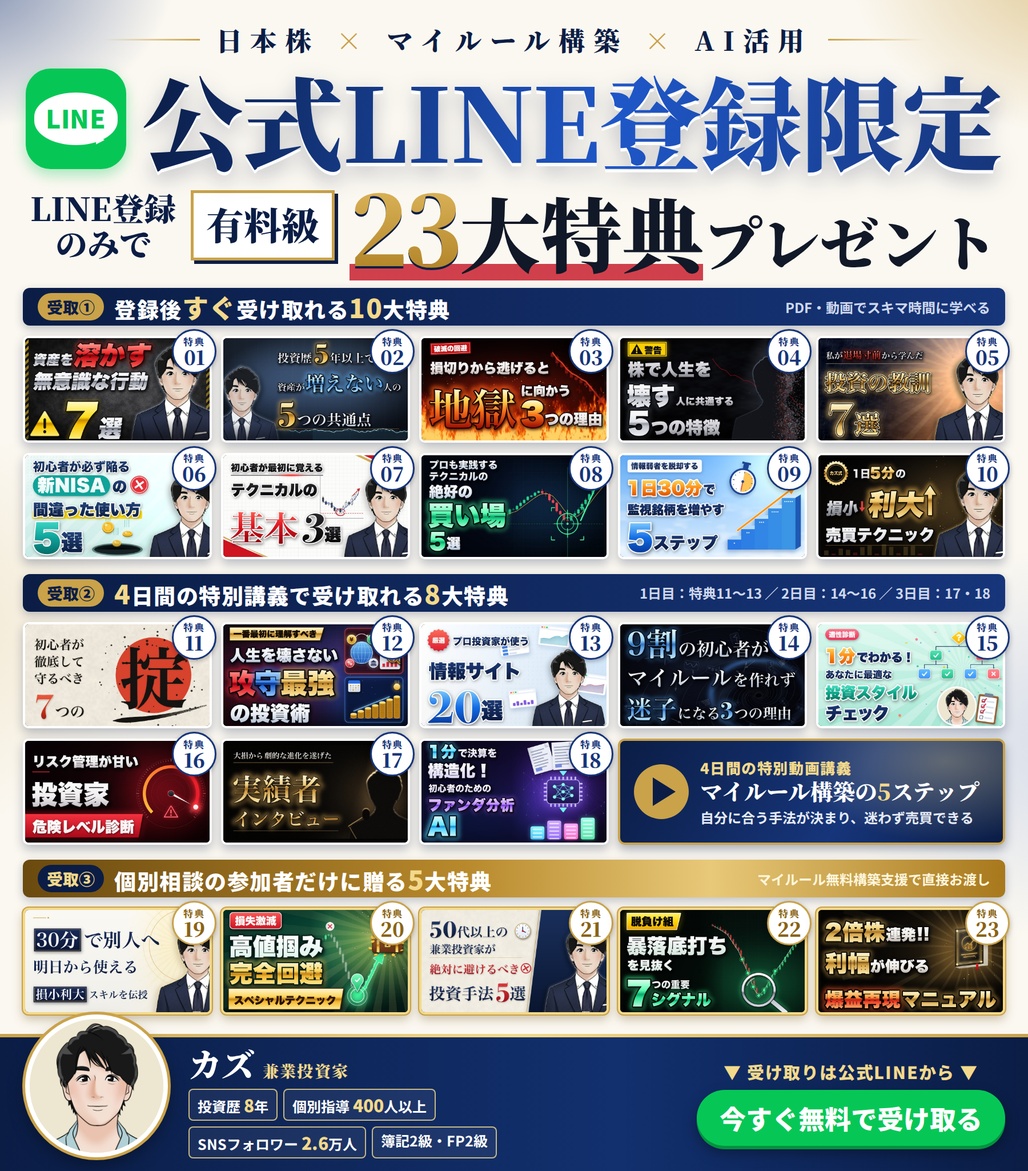
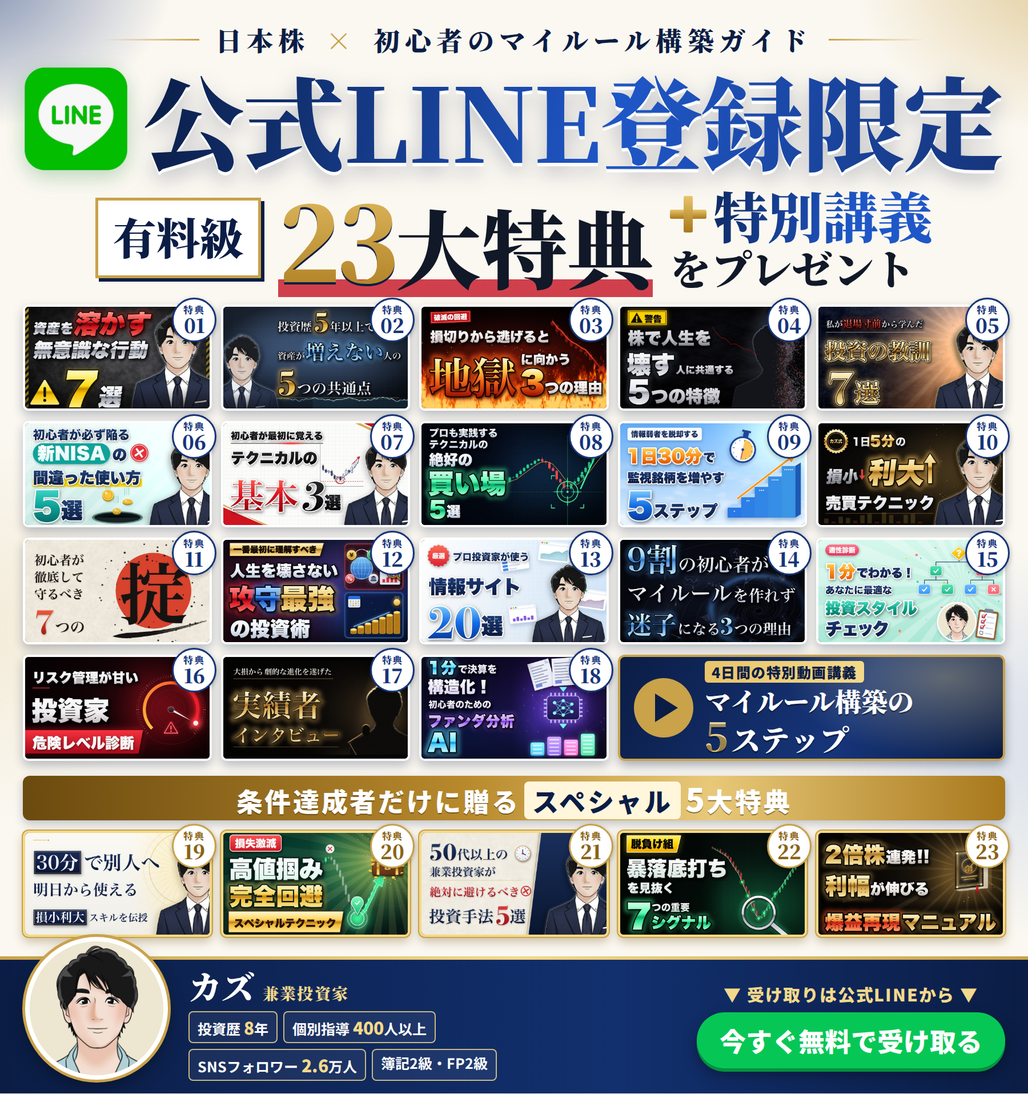
特典一覧画像v2：見出し・LINEアイコン・オファー文言・帯構成を修正
Claude-Session: https://claude.ai/code/session_01BRYeZoZKB6B4nL7X67V6t7

diff --git a/docs/sns-launch/line_tokuten/index.html b/docs/sns-launch/line_tokuten/index.html
@@ -24,32 +24,37 @@
 
   /* ---------- header ---------- */
   .eyebrow{display:flex;align-items:center;justify-content:center;gap:28px;
-    font-family:'Noto Serif JP',serif;font-weight:900;font-size:46px;letter-spacing:.32em;color:var(--navy)}
+    font-family:'Noto Serif JP',serif;font-weight:900;font-size:46px;letter-spacing:.2em;color:var(--navy)}
   .eyebrow::before,.eyebrow::after{content:"";height:3px;width:170px;background:linear-gradient(90deg,transparent,var(--gold))}
   .eyebrow::after{transform:scaleX(-1)}
   .eyebrow b{color:var(--gold)}
 
   .main{display:flex;align-items:center;justify-content:center;gap:26px;margin-top:10px}
-  .linebadge{width:176px;height:176px;border-radius:44px;background:var(--line);display:grid;place-items:center;
-    box-shadow:0 10px 24px rgba(6,199,85,.35)}
-  .linebadge span{background:#fff;color:var(--line);font:900 44px/1 'Noto Sans JP';padding:22px 20px 26px;border-radius:50% / 46%;letter-spacing:.02em;position:relative}
-  .linebadge span::after{content:"";position:absolute;right:26px;bottom:-12px;border:12px solid transparent;border-top-color:#fff;border-left-width:4px;transform:rotate(18deg)}
+  .linebadge{width:180px;height:180px;flex:none;filter:drop-shadow(0 10px 18px rgba(6,120,40,.28))}
+  .linebadge img{width:100%;height:100%;display:block}
   .headline{font-family:'Noto Serif JP',serif;font-weight:900;font-size:178px;line-height:1.08;letter-spacing:-.01em;
     background:linear-gradient(100deg,var(--navy) 0%,var(--blue) 55%,var(--navy2) 100%);-webkit-background-clip:text;background-clip:text;color:transparent;
     filter:drop-shadow(0 6px 0 rgba(255,255,255,.9)) drop-shadow(0 12px 18px rgba(11,29,69,.25))}
 
-  .offer{display:flex;align-items:center;justify-content:center;gap:26px;margin-top:6px}
+  .offer{display:flex;align-items:center;justify-content:center;gap:30px;margin-top:22px}
   .offer .only{white-space:nowrap;font-family:'Noto Serif JP',serif;font-weight:900;font-size:56px;line-height:1.12;color:var(--navy);text-align:center}
-  .offer .box{white-space:nowrap;border:5px solid var(--gold);color:var(--navy);background:#fff;font-family:'Noto Serif JP',serif;font-weight:900;font-size:66px;padding:6px 22px 12px;
+  .offer .box{white-space:nowrap;border:5px solid var(--gold);color:var(--navy);background:#fff;font-family:'Noto Serif JP',serif;font-weight:900;font-size:76px;padding:8px 26px 14px;
     box-shadow:6px 6px 0 var(--navy)}
-  .offer .big{font-family:'Noto Serif JP',serif;font-weight:900;color:var(--ink);font-size:142px;line-height:1;position:relative;white-space:nowrap}
-  .offer .big .num{font-size:168px;letter-spacing:-.04em;background:linear-gradient(180deg,#e9c46a,#a8781c);-webkit-background-clip:text;background-clip:text;color:transparent;
+  .offer .big{font-family:'Noto Serif JP',serif;font-weight:900;color:var(--ink);font-size:150px;line-height:1;position:relative;white-space:nowrap}
+  .offer .big .num{font-size:180px;letter-spacing:-.04em;background:linear-gradient(180deg,#e9c46a,#a8781c);-webkit-background-clip:text;background-clip:text;color:transparent;
     filter:drop-shadow(0 4px 0 var(--navy))}
   .offer .big .u{background:linear-gradient(transparent 78%,rgba(200,32,47,.85) 78%,rgba(200,32,47,.85) 92%,transparent 92%)}
-  .offer .big small{font-size:104px}
+  .offer .plus{font-family:'Noto Serif JP',serif;font-weight:900;white-space:nowrap;line-height:1.05}
+  .offer .p1{font-size:96px;background:linear-gradient(100deg,var(--navy) 0%,var(--blue) 70%);-webkit-background-clip:text;background-clip:text;color:transparent}
+  .offer .p1 .pm{display:inline-block;position:relative;width:64px;height:64px;margin-right:12px;vertical-align:10px}
+  .offer .p1 .pm::before,.offer .p1 .pm::after{content:"";position:absolute;background:linear-gradient(180deg,#e9c46a,#a8781c);border-radius:3px}
+  .offer .p1 .pm::before{left:0;right:0;top:24px;height:16px}
+  .offer .p1 .pm::after{top:0;bottom:0;left:24px;width:16px}
+  .offer .p2{font-size:72px;color:var(--ink);margin-top:4px}
 
   /* ---------- sections ---------- */
   .sec{margin-top:26px;position:relative}
+  .sec.tight{margin-top:0}
   .ribbon{display:flex;align-items:center;gap:18px;height:66px;padding:0 26px;border-radius:12px;
     background:linear-gradient(90deg,var(--navy),var(--navy2));color:#fff;box-shadow:0 6px 16px rgba(11,29,69,.25)}
   .ribbon .tag{background:var(--gold);color:var(--navy);font-weight:900;font-size:28px;padding:4px 16px;border-radius:999px;white-space:nowrap}
@@ -72,17 +77,19 @@
     background:linear-gradient(120deg,#0b1d45 0%,#16357a 60%,#0b1d45 100%);border:4px solid var(--gold);
     box-shadow:0 8px 18px rgba(11,29,69,.35);color:#fff;display:flex;align-items:center;padding:0 24px;gap:20px}
   .feature::before{content:"";position:absolute;inset:0;background:radial-gradient(400px 200px at 85% 20%,rgba(243,217,139,.35),transparent 70%)}
-  .feature .play{flex:none;width:96px;height:96px;border-radius:50%;background:var(--gold);display:grid;place-items:center;position:relative}
+  .feature .play{flex:none;width:104px;height:104px;border-radius:50%;background:var(--gold);display:grid;place-items:center;position:relative}
   .feature .play::after{content:"";margin-left:10px;border-left:40px solid var(--navy);border-top:25px solid transparent;border-bottom:25px solid transparent}
   .feature .txt{position:relative}
-  .feature .k{font-weight:900;font-size:26px;color:var(--gold2);letter-spacing:.06em}
-  .feature .t{white-space:nowrap;font-family:'Noto Serif JP',serif;font-weight:900;font-size:39px;line-height:1.15}
-  .feature .t em{font-style:normal;color:var(--gold2)}
-  .feature .s{white-space:nowrap;font-weight:700;font-size:24px;margin-top:6px;color:#e6ebf7}
+  .feature .k{display:inline-block;font-weight:900;font-size:25px;color:var(--navy);background:linear-gradient(90deg,#e9c46a,#f3d98b);padding:1px 12px;border-radius:6px;letter-spacing:.06em}
+  .feature .t{white-space:nowrap;font-family:'Noto Serif JP',serif;font-weight:900;font-size:46px;line-height:1.1;margin-top:6px;text-shadow:0 3px 0 rgba(0,0,0,.35)}
+  .feature .t2{white-space:nowrap;font-family:'Noto Serif JP',serif;font-weight:900;font-size:52px;line-height:1;text-shadow:0 3px 0 rgba(0,0,0,.35)}
+  .feature .t2 em{font-style:normal;font-size:68px;background:linear-gradient(180deg,#fff3c4,#e2b654);-webkit-background-clip:text;background-clip:text;color:transparent;margin-right:4px}
 
-  .sec.gold .ribbon{background:linear-gradient(90deg,#6b4a0f,#b8892c 45%,#e8c979 70%,#a8781c)}
+  .sec.gold .ribbon{justify-content:center;height:78px;background:linear-gradient(90deg,#6b4a0f,#b8892c 45%,#e8c979 70%,#a8781c)}
   .sec.gold .ribbon .tag{background:var(--navy);color:var(--gold2)}
-  .sec.gold .ribbon .note{color:#fff6dc}
+  .sec.gold .ribbon h2{font-size:46px;letter-spacing:.08em;text-shadow:0 2px 0 rgba(80,52,6,.6)}
+  .sec.gold .ribbon h2 em{color:#fff;font-size:56px}
+  .sec.gold .ribbon h2 em.sp{font-size:46px;color:var(--navy);text-shadow:none;background:#fff6dc;padding:0 14px;border-radius:8px;margin:0 8px}
   .sec.gold .card{border-color:var(--gold2);box-shadow:0 0 0 2px var(--gold),0 8px 18px rgba(107,74,15,.35)}
   .sec.gold .badge{border-color:var(--gold);color:#8a6414}
 
@@ -107,31 +114,32 @@
 <body>
 <div class="canvas" id="canvas">
 
-  <div class="eyebrow">日本株<b>×</b>マイルール構築<b>×</b>AI活用</div>
+  <div class="eyebrow">日本株<b>×</b>初心者のマイルール構築ガイド</div>
 
   <div class="main">
-    <div class="linebadge"><span>LINE</span></div>
+    <div class="linebadge"><img src="assets/line.png" alt="LINE"></div>
     <div class="headline">公式LINE登録限定</div>
   </div>
 
   <div class="offer">
-    <div class="only">LINE登録<br>のみで</div>
     <div class="box">有料級</div>
-    <div class="big"><span class="u"><span class="num">23</span>大特典</span><small>プレゼント</small></div>
+    <div class="big"><span class="u"><span class="num">23</span>大特典</span></div>
+    <div class="plus">
+      <div class="p1"><span class="pm"></span>特別講義</div>
+      <div class="p2">をプレゼント</div>
+    </div>
   </div>
 
   <section class="sec">
-    <div class="ribbon"><span class="tag">受取①</span><h2>登録後<em>すぐ</em>受け取れる<em>10</em>大特典</h2><span class="note">PDF・動画でスキマ時間に学べる</span></div>
     <div class="grid" id="g1"></div>
   </section>
 
-  <section class="sec">
-    <div class="ribbon"><span class="tag">受取②</span><h2><em>4</em>日間の特別講義で受け取れる<em>8</em>大特典</h2><span class="note">1日目：特典11〜13 ／ 2日目：14〜16 ／ 3日目：17・18</span></div>
+  <section class="sec tight">
     <div class="grid" id="g2"></div>
   </section>
 
   <section class="sec gold">
-    <div class="ribbon"><span class="tag">受取③</span><h2>個別相談の参加者だけに贈る<em>5</em>大特典</h2><span class="note">マイルール無料構築支援で直接お渡し</span></div>
+    <div class="ribbon"><h2>条件達成者だけに贈る<em class="sp">スペシャル</em><em>5</em>大特典</h2></div>
     <div class="grid" id="g3"></div>
   </section>
 
@@ -167,8 +175,8 @@
       <div class="play"></div>
       <div class="txt">
         <div class="k">4日間の特別動画講義</div>
-        <div class="t">マイルール構築の<em>5</em>ステップ</div>
-        <div class="s">自分に合う手法が決まり、迷わず売買できる</div>
+        <div class="t">マイルール構築の</div>
+        <div class="t2"><em>5</em>ステップ</div>
       </div>
     </div>`;
   document.getElementById('g3').innerHTML = [19,20,21,22,23].map(n=>card(n)).join('');

diff --git a/docs/sns-launch/line_tokuten/README.md b/docs/sns-launch/line_tokuten/README.md
@@ -1,6 +1,6 @@
 # LINE登録特典一覧画像（X投稿用）
 
-- 完成画像：`output.png`（1800×2050px）
+- 完成画像：`output.png`（1800×1914px）
 - 元データ：`index.html`（テキスト・構成の編集はここ）
 - 素材：`assets/thumbs/01〜23.jpg`（Driveの特典サムネを縮小）、`assets/icon.png`（Xアイコン）
 
@@ -15,8 +15,7 @@ NODE_PATH=$(npm root -g) node render.js   # output.png を書き出す
 
 | ゾーン | 内容 | 根拠 |
 |---|---|---|
-| 見出し | 公式LINE登録限定 / 有料級 23大特典プレゼント | 行動→見返りの2層 |
-| 受取① | 特典01〜10（登録直後） | プレゼント企画シート「LINE登録直後」 |
-| 受取② | 特典11〜18＋4日間講義カード | 「1話後/2話後/3話後」＝講義視聴の動機づけ |
-| 受取③ | 特典19〜23（ゴールド枠） | 「個別相談で実施」＝個別相談への誘導 |
+| 見出し | 公式LINE登録限定 / 有料級 23大特典＋特別講義をプレゼント | 行動→見返りの2層。「特別講義」はLINE配信文と表記を統一 |
+| 上段グリッド | 特典01〜18＋4日間講義カード（見出しなし） | 登録直後〜講義3日目に配布する特典 |
+| ゴールド帯 | 条件達成者だけに贈るスペシャル5大特典（19〜23） | 「個別相談で実施」＝個別相談への誘導 |
 | フッター | カズ・実績チップ・CTA | 商品スライドの自己紹介（投資歴8年・指導400人以上・2.6万人） |
